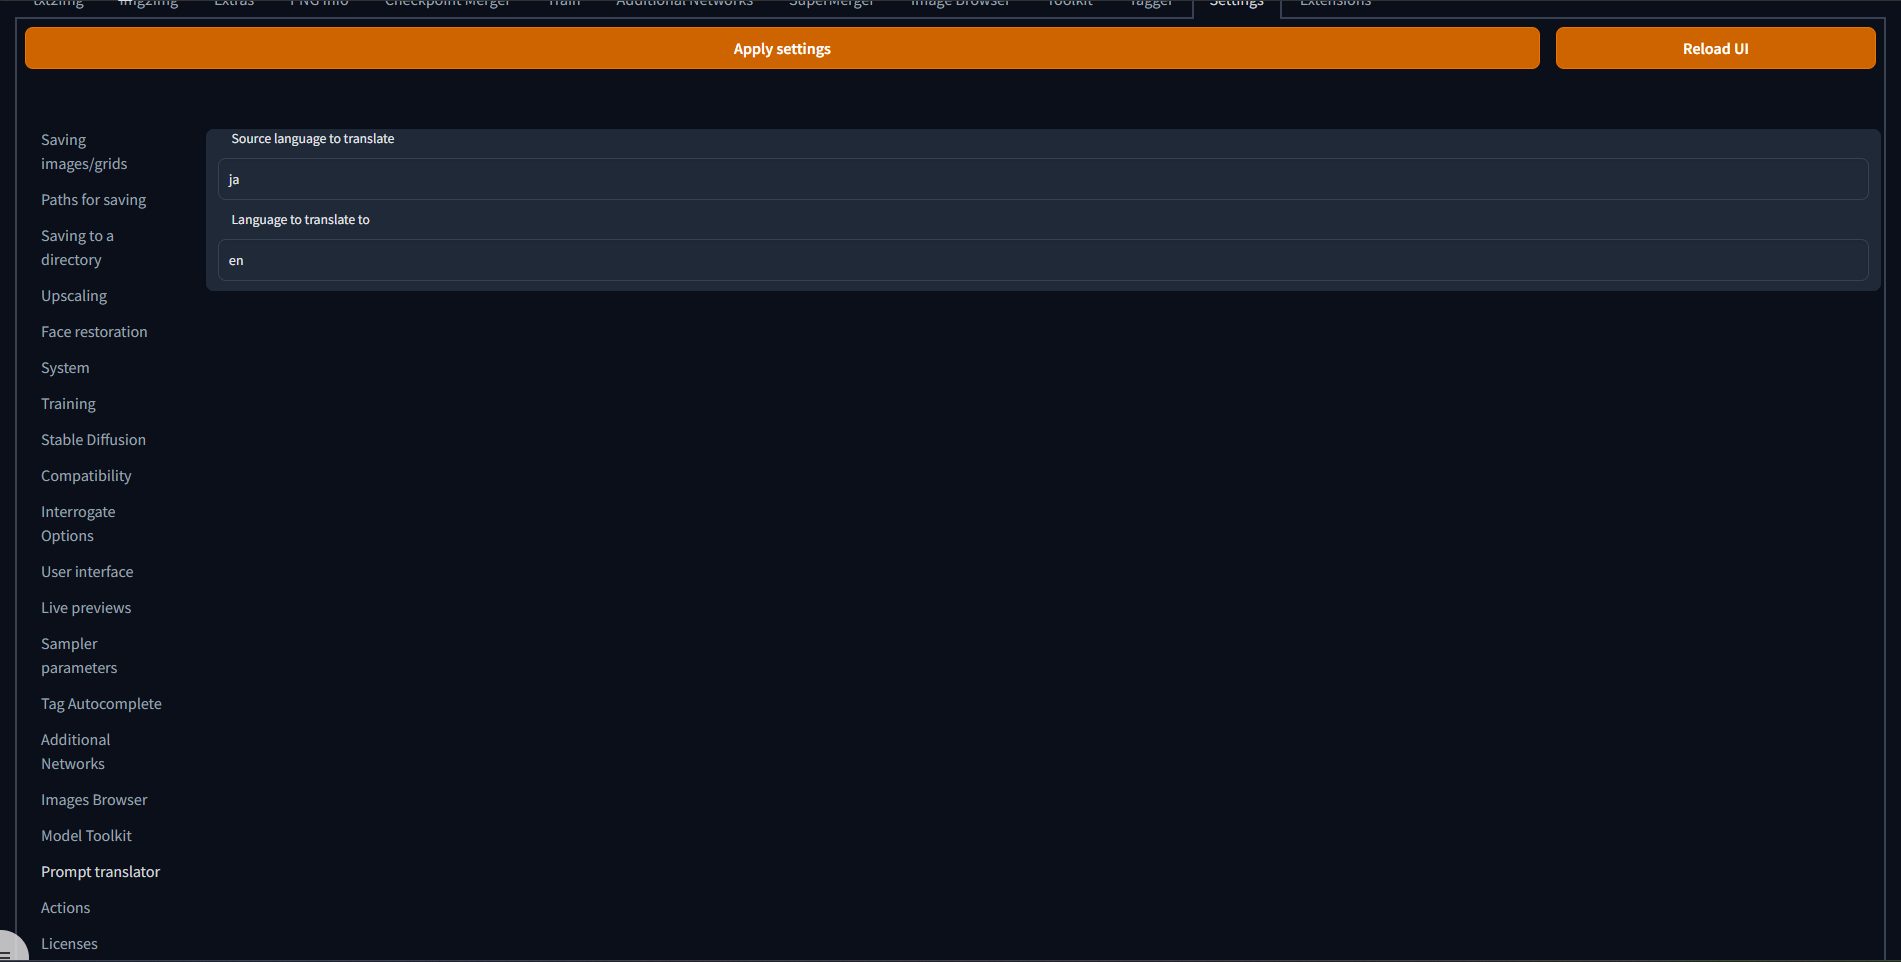
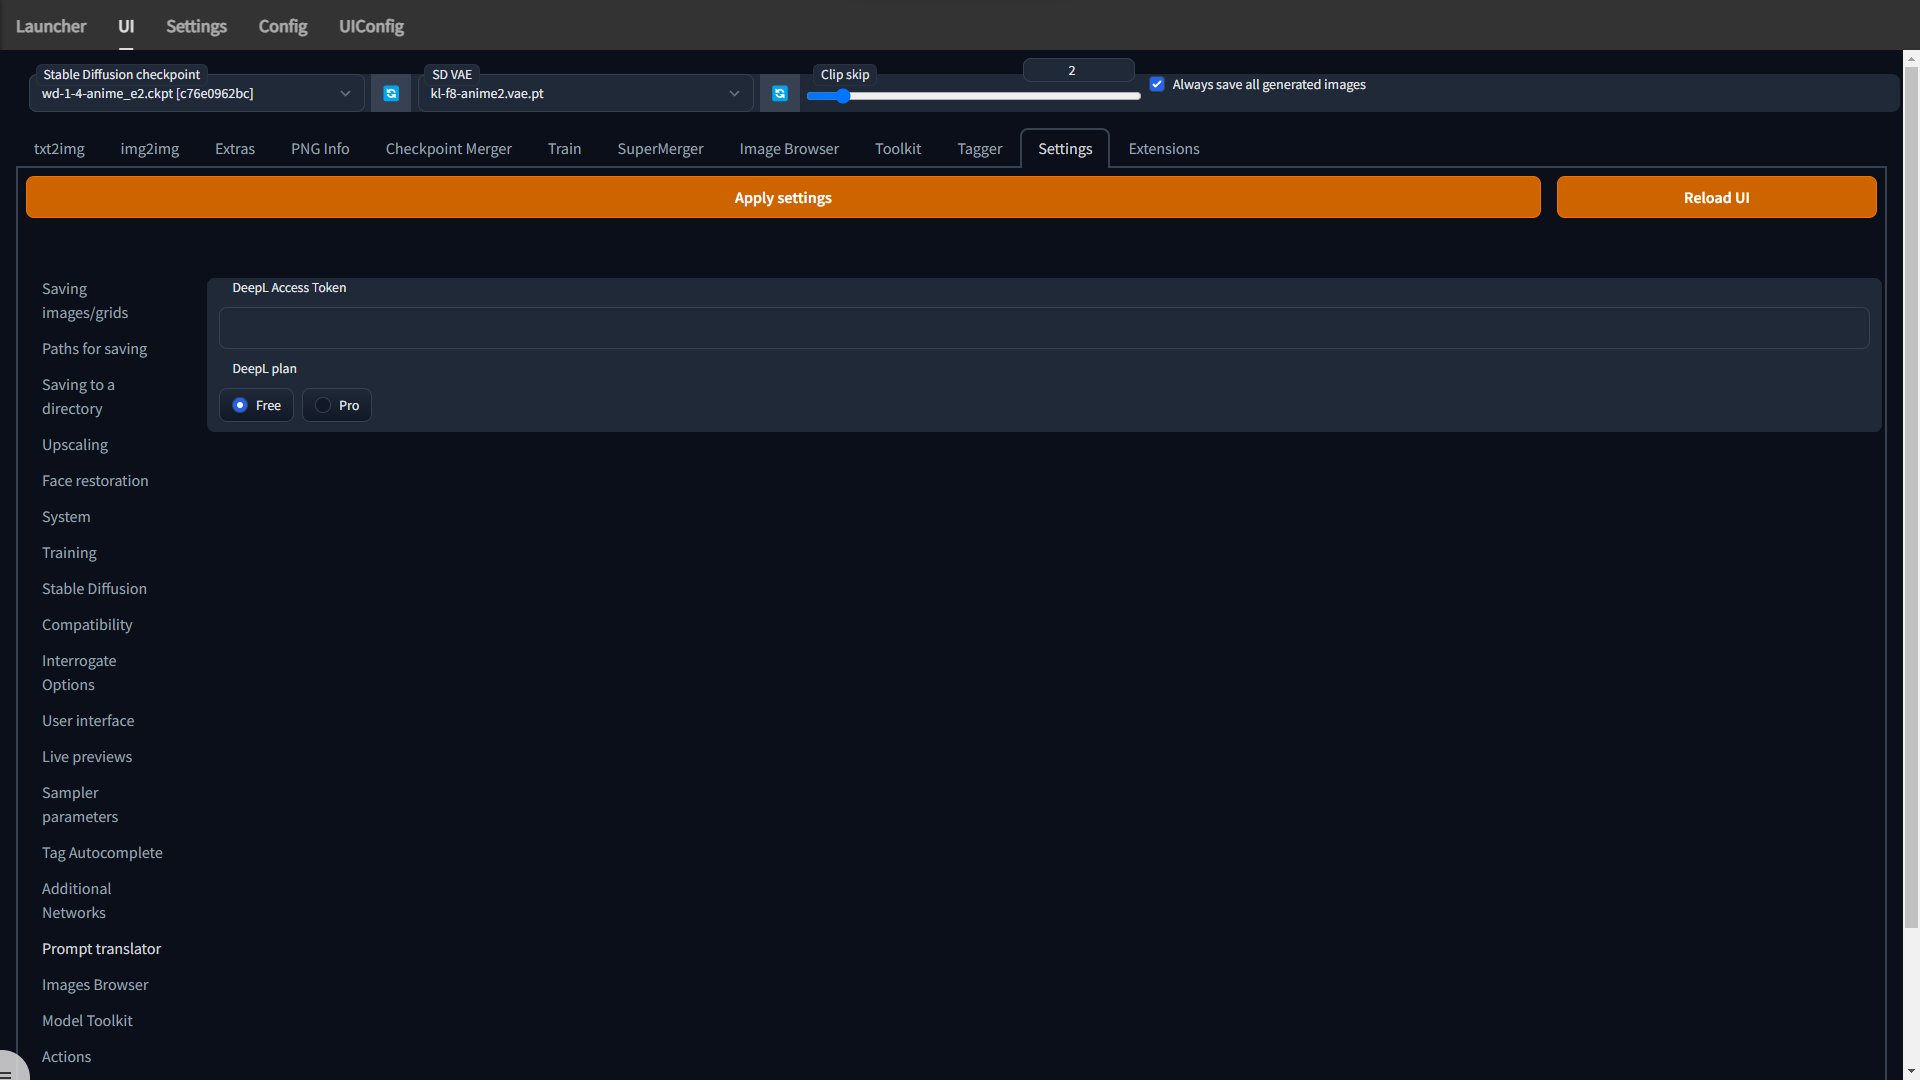
update readme

diff --git a/README.md b/README.md
@@ -4,16 +4,28 @@ Translate non-English prompts to English.
 
 英語以外のプロンプトを英語に翻訳します。
 
-# Usage
+# Usage / 使い方
+![](./screenshots/main.png)
+
+|||
+|-|-|
+|`Auto Translate`|Automatically translate prompt / プロンプトを自動で翻訳する|
+|`Source`|Please enter the language you are translating from. (DeepL will automatically detect it.) / 翻訳元の言語を入力してください。 (DeepL では自動で検出されます。)|
+|`Target`|Please enter the language you want to translate to. / 翻訳先の言語を入力してください。|
+
+## When using DeepL / DeepLを使う場合
 ![](./screenshots/settings.png)
 
-Enter the source language in `Source language to translate` and the target language in `Language to translate to`.
+If you use DeepL, enter your DeepL access token from the settings tab and select a plan.
 
-`Source language to translate`に翻訳元の言語を、`Language to translate to`に翻訳先の言語を入力します。
+DeepLを使う場合は設定タブからDeepLのアクセストークンを入力して、プランを選択してください。
 
 # List of languages
 Click here for language list
 
 言語一覧はこちらをご覧ください。
 
+
 https://cloud.google.com/translate/docs/languages
+
+https://www.deepl.com/docs-api/translate-text/markup
